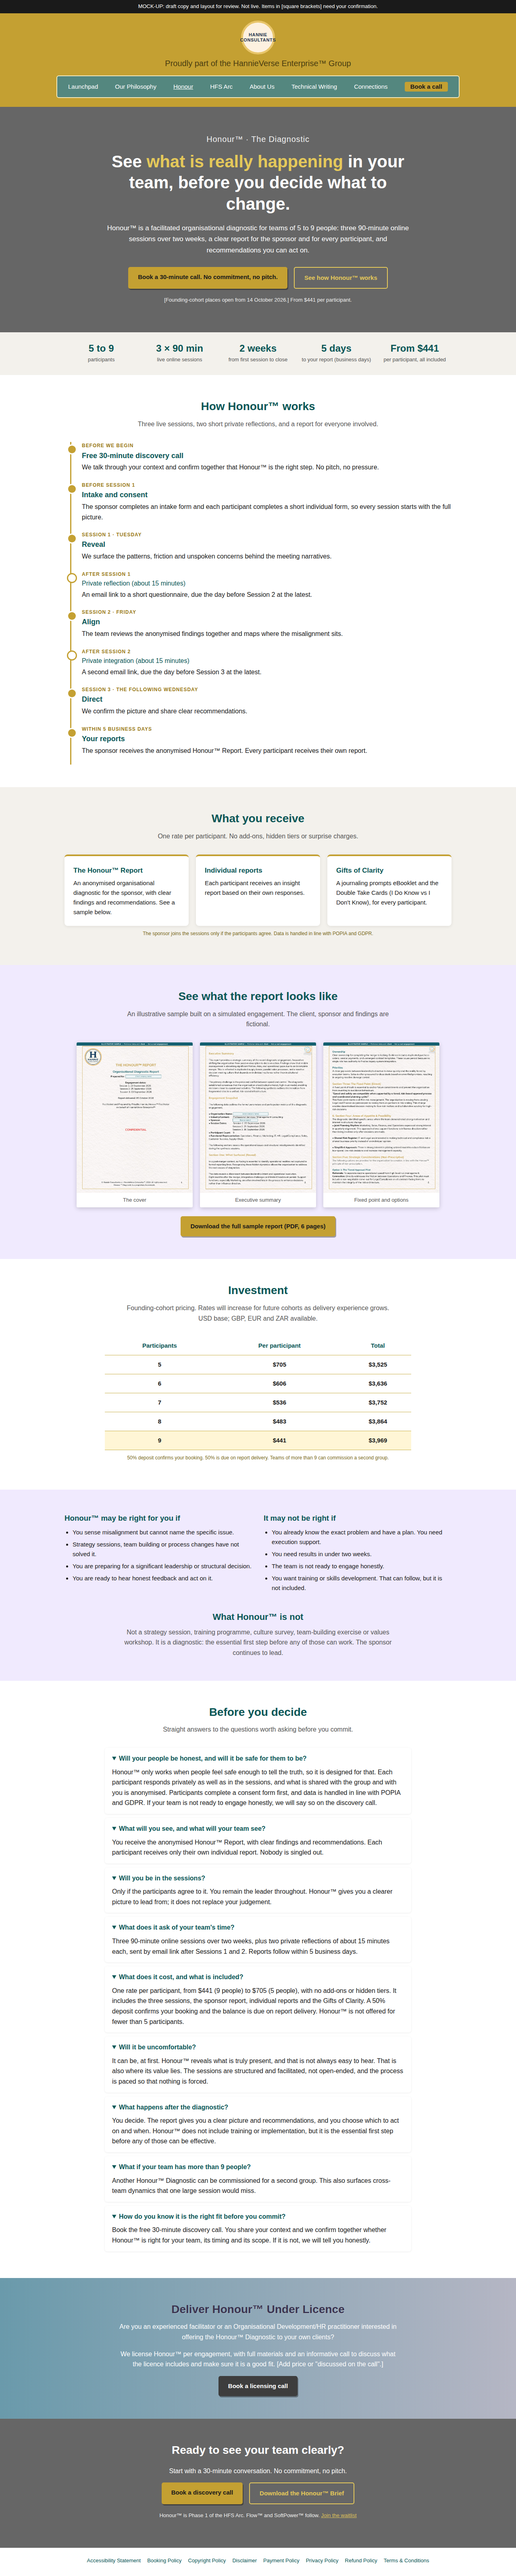
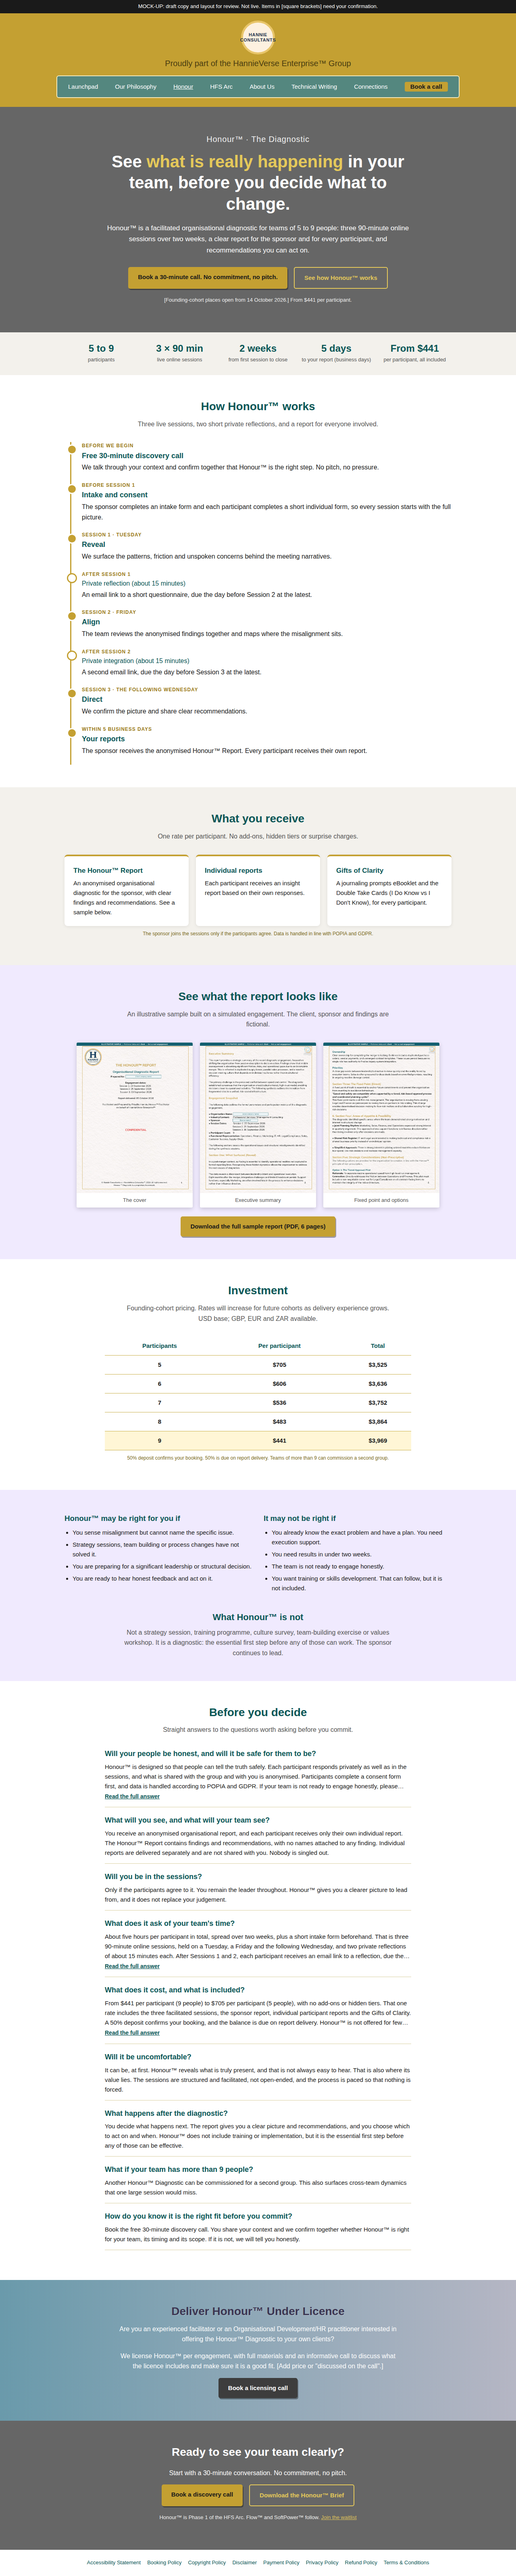
Update Honour FAQ (collapsible answers) in mock-up and checklist
Claude-Session: https://claude.ai/code/session_01VGNF22YqMhet38GotcC9rv

diff --git a/qa/honour-page-mockup.html b/qa/honour-page-mockup.html
@@ -62,6 +62,11 @@
   .sample figure{margin:0;background:#fff;box-shadow:0 3px 12px rgba(0,0,0,.18);border-radius:3px;overflow:hidden}
   .sample img{display:block;width:100%;height:auto}
   .sample figcaption{font-size:13px;text-align:center;padding:8px;color:#555}
+  .faq{max-width:760px;margin:0 auto 18px;padding-bottom:14px;border-bottom:1px solid #d9cfa0}
+  .faq h3{margin:0 0 6px;color:var(--teal-d);font-size:18px}
+  .faq .ans{font-size:15px;display:-webkit-box;-webkit-line-clamp:3;-webkit-box-orient:vertical;overflow:hidden}
+  .faq .ans.open{display:block;-webkit-line-clamp:unset}
+  .faq .more{background:none;border:0;padding:4px 0;color:var(--teal-d);font-weight:600;font-size:14px;text-decoration:underline;cursor:pointer;font-family:inherit}
   details{background:#fff;border-radius:6px;padding:14px 18px;margin-bottom:10px;box-shadow:0 1px 4px rgba(0,0,0,.08);max-width:760px;margin-left:auto;margin-right:auto}
   summary{cursor:pointer;font-weight:600;color:var(--teal-d)}
   details p{margin:8px 0 0}
@@ -207,15 +212,15 @@
   <div class="wrap">
     <h2>Before you decide</h2>
     <p class="sub">Straight answers to the questions worth asking before you commit.</p>
-    <details><summary>Will your people be honest, and will it be safe for them to be?</summary><p>Honour&trade; only works when people feel safe enough to tell the truth, so it is designed for that. Each participant responds privately as well as in the sessions, and what is shared with the group and with you is anonymised. Participants complete a consent form first, and data is handled in line with POPIA and GDPR. If your team is not ready to engage honestly, we will say so on the discovery call.</p></details>
-    <details><summary>What will you see, and what will your team see?</summary><p>You receive the anonymised Honour&trade; Report, with clear findings and recommendations. Each participant receives only their own individual report. Nobody is singled out.</p></details>
-    <details><summary>Will you be in the sessions?</summary><p>Only if the participants agree to it. You remain the leader throughout. Honour&trade; gives you a clearer picture to lead from; it does not replace your judgement.</p></details>
-    <details><summary>What does it ask of your team's time?</summary><p>Three 90-minute online sessions over two weeks, plus two private reflections of about 15 minutes each, sent by email link after Sessions 1 and 2. Reports follow within 5 business days.</p></details>
-    <details><summary>What does it cost, and what is included?</summary><p>One rate per participant, from $441 (9 people) to $705 (5 people), with no add-ons or hidden tiers. It includes the three sessions, the sponsor report, individual reports and the Gifts of Clarity. A 50% deposit confirms your booking and the balance is due on report delivery. Honour&trade; is not offered for fewer than 5 participants.</p></details>
-    <details><summary>Will it be uncomfortable?</summary><p>It can be, at first. Honour&trade; reveals what is truly present, and that is not always easy to hear. That is also where its value lies. The sessions are structured and facilitated, not open-ended, and the process is paced so that nothing is forced.</p></details>
-    <details><summary>What happens after the diagnostic?</summary><p>You decide. The report gives you a clear picture and recommendations, and you choose which to act on and when. Honour&trade; does not include training or implementation, but it is the essential first step before any of those can be effective.</p></details>
-    <details><summary>What if your team has more than 9 people?</summary><p>Another Honour&trade; Diagnostic can be commissioned for a second group. This also surfaces cross-team dynamics that one large session would miss.</p></details>
-    <details><summary>How do you know it is the right fit before you commit?</summary><p>Book the free 30-minute discovery call. You share your context and we confirm together whether Honour&trade; is right for your team, its timing and its scope. If it is not, we will tell you honestly.</p></details>
+    <div class="faq"><h3>Will your people be honest, and will it be safe for them to be?</h3><div class="ans" id="a1" data-q="Will your people be honest, and will it be safe for them to be?">Honour&trade; is designed so that people can tell the truth safely. Each participant responds privately as well as in the sessions, and what is shared with the group and with you is anonymised. Participants complete a consent form first, and data is handled according to POPIA and GDPR. If your team is not ready to engage honestly, please indicate so during the discovery call.</div><button class="more" aria-expanded="false" aria-controls="a1" aria-label="Read the full answer: Will your people be honest, and will it be safe for them to be?">Read the full answer</button></div>
+    <div class="faq"><h3>What will you see, and what will your team see?</h3><div class="ans" id="a2" data-q="What will you see, and what will your team see?">You receive an anonymised organisational report, and each participant receives only their own individual report. The Honour&trade; Report contains findings and recommendations, with no names attached to any finding. Individual reports are delivered separately and are not shared with you. Nobody is singled out.</div><button class="more" aria-expanded="false" aria-controls="a2" aria-label="Read the full answer: What will you see, and what will your team see?">Read the full answer</button></div>
+    <div class="faq"><h3>Will you be in the sessions?</h3><div class="ans" id="a3" data-q="Will you be in the sessions?">Only if the participants agree to it. You remain the leader throughout. Honour&trade; gives you a clearer picture to lead from, and it does not replace your judgement.</div><button class="more" aria-expanded="false" aria-controls="a3" aria-label="Read the full answer: Will you be in the sessions?">Read the full answer</button></div>
+    <div class="faq"><h3>What does it ask of your team's time?</h3><div class="ans" id="a4" data-q="What does it ask of your team's time?">About five hours per participant in total, spread over two weeks, plus a short intake form beforehand. That is three 90-minute online sessions, held on a Tuesday, a Friday and the following Wednesday, and two private reflections of about 15 minutes each. After Sessions 1 and 2, each participant receives an email link to a reflection, due the day before the next session at the latest. Reports follow within 5 business days of the final session.</div><button class="more" aria-expanded="false" aria-controls="a4" aria-label="Read the full answer: What does it ask of your team's time?">Read the full answer</button></div>
+    <div class="faq"><h3>What does it cost, and what is included?</h3><div class="ans" id="a5" data-q="What does it cost, and what is included?">From $441 per participant (9 people) to $705 per participant (5 people), with no add-ons or hidden tiers. That one rate includes the three facilitated sessions, the sponsor report, individual participant reports and the Gifts of Clarity. A 50% deposit confirms your booking, and the balance is due on report delivery. Honour&trade; is not offered for fewer than 5 participants. Prices are in USD, with GBP, EUR and ZAR available.</div><button class="more" aria-expanded="false" aria-controls="a5" aria-label="Read the full answer: What does it cost, and what is included?">Read the full answer</button></div>
+    <div class="faq"><h3>Will it be uncomfortable?</h3><div class="ans" id="a6" data-q="Will it be uncomfortable?">It can be, at first. Honour&trade; reveals what is truly present, and that is not always easy to hear. That is also where its value lies. The sessions are structured and facilitated, not open-ended, and the process is paced so that nothing is forced.</div><button class="more" aria-expanded="false" aria-controls="a6" aria-label="Read the full answer: Will it be uncomfortable?">Read the full answer</button></div>
+    <div class="faq"><h3>What happens after the diagnostic?</h3><div class="ans" id="a7" data-q="What happens after the diagnostic?">You decide what happens next. The report gives you a clear picture and recommendations, and you choose which to act on and when. Honour&trade; does not include training or implementation, but it is the essential first step before any of those can be effective.</div><button class="more" aria-expanded="false" aria-controls="a7" aria-label="Read the full answer: What happens after the diagnostic?">Read the full answer</button></div>
+    <div class="faq"><h3>What if your team has more than 9 people?</h3><div class="ans" id="a8" data-q="What if your team has more than 9 people?">Another Honour&trade; Diagnostic can be commissioned for a second group. This also surfaces cross-team dynamics that one large session would miss.</div><button class="more" aria-expanded="false" aria-controls="a8" aria-label="Read the full answer: What if your team has more than 9 people?">Read the full answer</button></div>
+    <div class="faq"><h3>How do you know it is the right fit before you commit?</h3><div class="ans" id="a9" data-q="How do you know it is the right fit before you commit?">Book the free 30-minute discovery call. You share your context and we confirm together whether Honour&trade; is right for your team, its timing and its scope. If it is not, we will tell you honestly.</div><button class="more" aria-expanded="false" aria-controls="a9" aria-label="Read the full answer: How do you know it is the right fit before you commit?">Read the full answer</button></div>
   </div>
 </section>
 
@@ -240,5 +245,12 @@
 <footer>
   <a href="#">Accessibility Statement</a><a href="#">Booking Policy</a><a href="#">Copyright Policy</a><a href="#">Disclaimer</a><a href="#">Payment Policy</a><a href="#">Privacy Policy</a><a href="#">Refund Policy</a><a href="#">Terms &amp; Conditions</a>
 </footer>
+<script>
+document.querySelectorAll('.faq .more').forEach(function(b){
+  var a=document.getElementById(b.getAttribute('aria-controls')),q=a.getAttribute('data-q');
+  if(a.scrollHeight<=a.clientHeight+2){b.style.display='none';}
+  b.onclick=function(){var o=a.classList.toggle('open');b.setAttribute('aria-expanded',o);b.textContent=o?'Show less':'Read the full answer';b.setAttribute('aria-label',(o?'Show less: ':'Read the full answer: ')+q);};
+});
+</script>
 </body>
 </html>

diff --git a/qa/make_fix_checklist.py b/qa/make_fix_checklist.py
@@ -304,9 +304,9 @@ para("From $441 per participant (5 to 9 people, USD; GBP, EUR and ZAR available)
 doc.add_paragraph().add_run().add_break(WD_BREAK.PAGE)
 t = doc.add_paragraph()
 run(t, "Honour\u2122 page: Before you decide (approved FAQ copy)", bold=True, color=TEAL, size=16)
-para("Approved by you. Voice: \"you\" for the reader, \"we\" for Hannie Consultants.", italic=True, color=GREY, size=9)
+para("Approved by you. Voice: \"you\" for the reader, \"we\" for Hannie Consultants. Answers start with the key point, so the first 3 lines stand alone in the Wix Collapsible Text Box. Set each box\u2019s button text to \"Read the full answer\" and \"Show less\", and its Accessible name to the question.", italic=True, color=GREY, size=9)
 para("Straight answers to the questions worth asking before you commit.", bold=True)
-FAQ = [('Will your people be honest, and will it be safe for them to be?', 'Honour™ only works when people feel safe enough to tell the truth, so it is designed for that. Each participant responds privately as well as in the sessions, and what is shared with the group and with you is anonymised. Participants complete a consent form first, and data is handled in line with POPIA and GDPR. If your team is not ready to engage honestly, we will say so on the discovery call.'), ('What will you see, and what will your team see?', 'You receive the anonymised Honour™ Report, with clear findings and recommendations. Each participant receives only their own individual report. Nobody is singled out.'), ('Will you be in the sessions?', 'Only if the participants agree to it. You remain the leader throughout. Honour™ gives you a clearer picture to lead from; it does not replace your judgement.'), ("What does it ask of your team's time?", 'Three 90-minute online sessions over two weeks, plus two private reflections of about 15 minutes each, sent by email link after Sessions 1 and 2. Reports follow within 5 business days.'), ('What does it cost, and what is included?', 'One rate per participant, from $441 (9 people) to $705 (5 people), with no add-ons or hidden tiers. It includes the three sessions, the sponsor report, individual reports and the Gifts of Clarity. A 50% deposit confirms your booking and the balance is due on report delivery. Honour™ is not offered for fewer than 5 participants.'), ('Will it be uncomfortable?', 'It can be, at first. Honour™ reveals what is truly present, and that is not always easy to hear. That is also where its value lies. The sessions are structured and facilitated, not open-ended, and the process is paced so that nothing is forced.'), ('What happens after the diagnostic?', 'You decide. The report gives you a clear picture and recommendations, and you choose which to act on and when. Honour™ does not include training or implementation, but it is the essential first step before any of those can be effective.'), ('What if your team has more than 9 people?', 'Another Honour™ Diagnostic can be commissioned for a second group. This also surfaces cross-team dynamics that one large session would miss.'), ('How do you know it is the right fit before you commit?', 'Book the free 30-minute discovery call. You share your context and we confirm together whether Honour™ is right for your team, its timing and its scope. If it is not, we will tell you honestly.')]
+FAQ = [('Will your people be honest, and will it be safe for them to be?', 'Honour™ is designed so that people can tell the truth safely. Each participant responds privately as well as in the sessions, and what is shared with the group and with you is anonymised. Participants complete a consent form first, and data is handled according to POPIA and GDPR. If your team is not ready to engage honestly, please indicate so during the discovery call.'), ('What will you see, and what will your team see?', 'You receive an anonymised organisational report, and each participant receives only their own individual report. The Honour™ Report contains findings and recommendations, with no names attached to any finding. Individual reports are delivered separately and are not shared with you. Nobody is singled out.'), ('Will you be in the sessions?', 'Only if the participants agree to it. You remain the leader throughout. Honour™ gives you a clearer picture to lead from, and it does not replace your judgement.'), ("What does it ask of your team's time?", 'About five hours per participant in total, spread over two weeks, plus a short intake form beforehand. That is three 90-minute online sessions, held on a Tuesday, a Friday and the following Wednesday, and two private reflections of about 15 minutes each. After Sessions 1 and 2, each participant receives an email link to a reflection, due the day before the next session at the latest. Reports follow within 5 business days of the final session.'), ('What does it cost, and what is included?', 'From $441 per participant (9 people) to $705 per participant (5 people), with no add-ons or hidden tiers. That one rate includes the three facilitated sessions, the sponsor report, individual participant reports and the Gifts of Clarity. A 50% deposit confirms your booking, and the balance is due on report delivery. Honour™ is not offered for fewer than 5 participants. Prices are in USD, with GBP, EUR and ZAR available.'), ('Will it be uncomfortable?', 'It can be, at first. Honour™ reveals what is truly present, and that is not always easy to hear. That is also where its value lies. The sessions are structured and facilitated, not open-ended, and the process is paced so that nothing is forced.'), ('What happens after the diagnostic?', 'You decide what happens next. The report gives you a clear picture and recommendations, and you choose which to act on and when. Honour™ does not include training or implementation, but it is the essential first step before any of those can be effective.'), ('What if your team has more than 9 people?', 'Another Honour™ Diagnostic can be commissioned for a second group. This also surfaces cross-team dynamics that one large session would miss.'), ('How do you know it is the right fit before you commit?', 'Book the free 30-minute discovery call. You share your context and we confirm together whether Honour™ is right for your team, its timing and its scope. If it is not, we will tell you honestly.')]
 for q, a in FAQ:
     p = doc.add_paragraph()
     p.paragraph_format.space_before = Pt(8)
